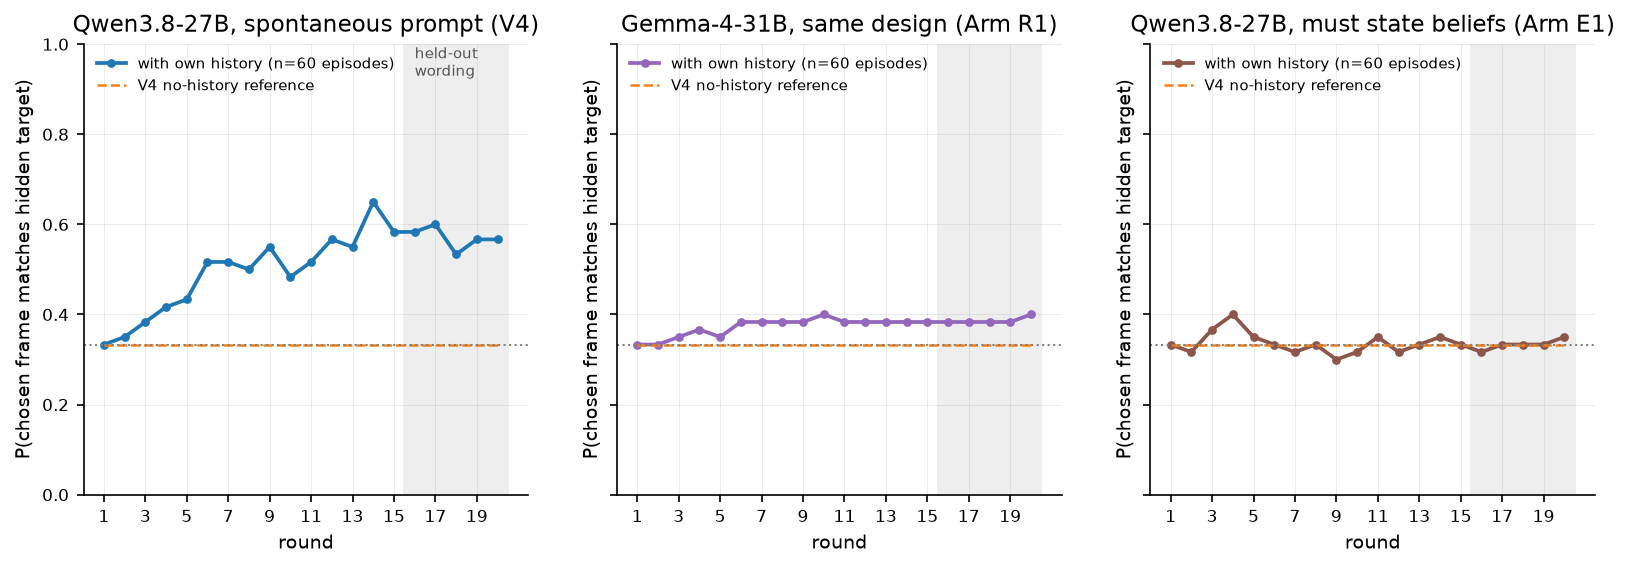
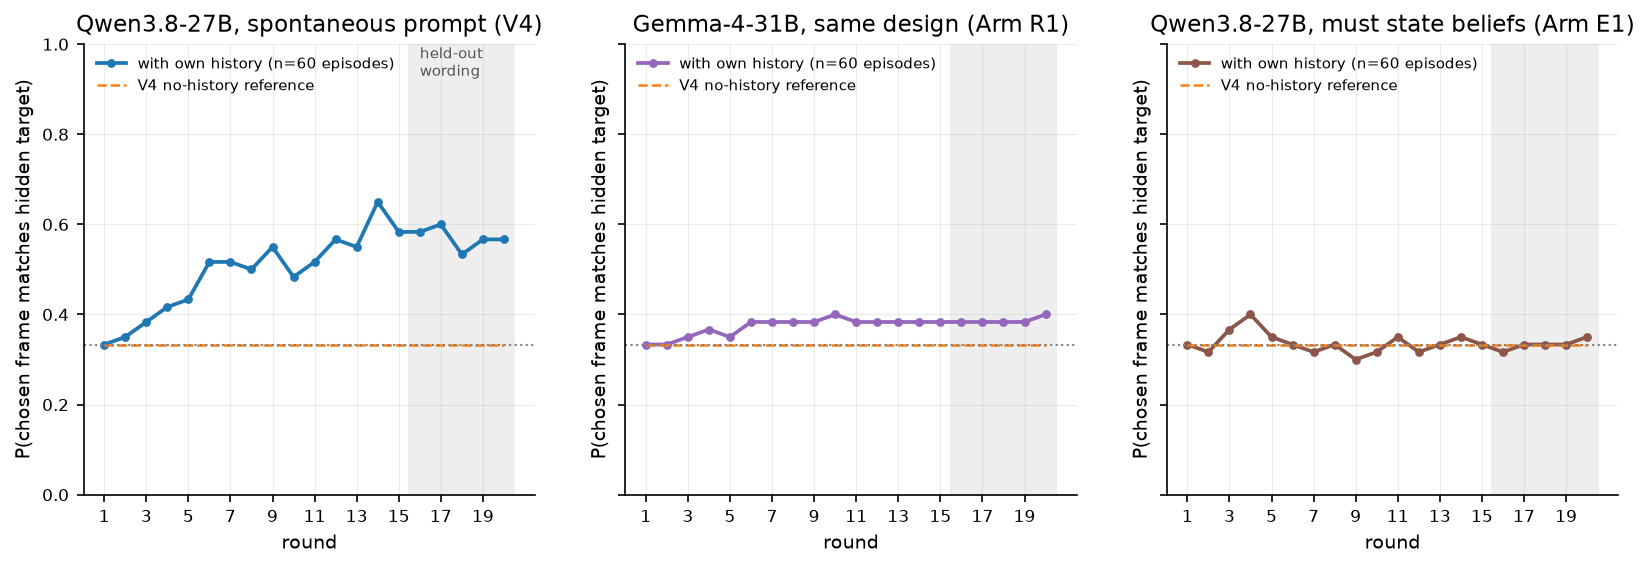
Write-up: pre-wire Arm P1 (paraphrase) — Result 7, ledger row, fourth whole-story panel; pending until results exist

diff --git a/scripts/make_writeup_materials.py b/scripts/make_writeup_materials.py
@@ -37,6 +37,7 @@ R1_DIR = os.path.join(ROOT, "results", "v4_real", "replication_gemma4")   # Arm 
 E1_DIR = os.path.join(ROOT, "results", "v4_real", "elicited_qwen38")      # Arm E1: Qwen3.8-27B, elicited beliefs
 E1_BELIEF = os.path.join(E1_DIR, "beliefs", "elicited_belief_summary.json")
 E1_LOG = os.path.join(ROOT, "data", "raw", "v4e-qwen38.jsonl")
+P1_DIR = os.path.join(ROOT, "results", "v4_real", "paraphrase_qwen38")     # Arm P1: Qwen3.8-27B, reworded spontaneous prompt
 FRAMES = ("fairness", "risk", "expertise")
 COL = {"full_history": "#1f77b4", "no_history": "#ff7f0e", "shuffled_history": "#2ca02c", "random_target": "#d62728", "swap": "#9467bd"}
 numbers = []  # (label, value, source)
@@ -327,6 +328,24 @@ def fig9_elicited():
     return out
 
 
+def p1_paraphrase():
+    """Arm P1: frozen V4 design on Qwen with a reworded spontaneous prompt; frozen analyzer run once."""
+    summ = os.path.join(P1_DIR, "v4_checkpoint_summary.json")
+    if not os.path.exists(summ):
+        return None
+    s = json.load(open(summ)); m = s["stable_condition_metrics"]
+    for cond in ("full_history", "no_history", "shuffled_history", "random_target"):
+        g = m[cond]["learning_gain"]; N("P1 paraphrase %s learning gain (late held-out − early), 95%% CI" % cond, "%.3f [%.3f, %.3f], n=%d" % (g["mean"], g["ci_lo"], g["ci_hi"], g["n"]), "paraphrase_qwen38/v4_checkpoint_summary.json")
+    st = pd.read_csv(os.path.join(P1_DIR, "tables", "v4_stable_conditions.csv"))
+    for _, r in st.iterrows(): N("P1 paraphrase %s early / late held-out match" % r.condition, "%.3f / %.3f" % (r.early_match, r.late_heldout_match), "paraphrase_qwen38/tables/v4_stable_conditions.csv")
+    pc = s["primary_contrasts"]["full_vs_no_difference_in_differences"]; N("P1 paraphrase full − no-history difference-in-differences, one-sided p", "%.3f [%.3f, %.3f], p=%.4f" % (pc["mean"], pc["ci_lo"], pc["ci_hi"], pc["p_value_one_sided"]), "paraphrase_qwen38/v4_checkpoint_summary.json primary_contrasts")
+    for t, v in s["late_match_by_target_type"].items(): N("P1 paraphrase late match by target %s: full / no-history / advantage" % t, "%.3f / %.3f / %.3f" % (v["full_late_heldout"], v["no_history_late_heldout"], v["advantage"]), "paraphrase_qwen38/v4_checkpoint_summary.json late_match_by_target_type")
+    sw = s["swap_metrics"]; N("P1 paraphrase swap new gain / old drop / new-over-old (p) / adapted", "%.3f / %.3f / %.3f (p=%.4f) / %d of %d" % (sw["new_target_gain"]["mean"], sw["old_target_drop"]["mean"], sw["late_new_over_old"]["mean"], sw["late_new_over_old"]["p_value_one_sided"], sw["n_adapted"], sw["n_episodes"]), "paraphrase_qwen38/v4_checkpoint_summary.json swap_metrics")
+    N("P1 paraphrase decision", s["decision"], "paraphrase_qwen38/v4_checkpoint_summary.json decision")
+    N("P1 paraphrase stable primary randomization test passed", s["inference_gates"]["stable_primary_randomization_test"], "paraphrase_qwen38/v4_checkpoint_summary.json inference_gates")
+    return {"summary": s}
+
+
 def fig11_whole_story():
     """One figure for the summary: full-history match by round for V4 Qwen, R1 Gemma, E1 Qwen-elicited, with V4 no-history as the reference."""
     r1 = os.path.join(R1_DIR, "tables", "v4_round_trajectories.csv"); e1 = os.path.join(E1_DIR, "tables", "elicited_round_trajectories.csv")
@@ -334,10 +353,12 @@ def fig11_whole_story():
         return None
     tq = pd.read_csv(V4_TRAJ); tg = pd.read_csv(r1); te = pd.read_csv(e1)
     ref = tq[(tq.metric == "match") & (tq.condition == "no_history")].sort_values("round")
-    panels = [("Qwen3.8-27B, spontaneous prompt (V4)", tq, "full_history", COL["full_history"]),
-              ("Gemma-4-31B, same design (Arm R1)", tg, "full_history", "#9467bd"),
-              ("Qwen3.8-27B, must state beliefs (Arm E1)", te, "elicited_full_history", "#8c564b")]
-    fig, axes = plt.subplots(1, 3, figsize=(13, 3.9), dpi=150, sharey=True)
+    panels = [("Qwen3.8-27B, spontaneous prompt (V4)", tq, "full_history", COL["full_history"])]
+    p1 = os.path.join(P1_DIR, "tables", "v4_round_trajectories.csv")
+    if os.path.exists(p1): panels.append(("Qwen3.8-27B, reworded prompt (Arm P1)", pd.read_csv(p1), "full_history", "#17becf"))
+    panels += [("Gemma-4-31B, same design (Arm R1)", tg, "full_history", "#9467bd"),
+               ("Qwen3.8-27B, must state beliefs (Arm E1)", te, "elicited_full_history", "#8c564b")]
+    fig, axes = plt.subplots(1, len(panels), figsize=(4.4 * len(panels), 3.9), dpi=150, sharey=True)
     for ax, (title, t, cond, color) in zip(axes, panels):
         g = t[(t.metric == "match") & (t.condition == cond)].sort_values("round")
         ax.plot(g["round"], g["mean"], marker="o", ms=3.2, lw=1.8, color=color, label="with own history (n=%d episodes)" % int(g["n"].iloc[0]))
@@ -362,7 +383,7 @@ def random_examples(k=5, seed=0, log_path=None):
 def main():
     os.makedirs(OUT, exist_ok=True)
     s = json.load(open(V4_SUM))
-    fig1_learning(); per, grp = fig2_swap(); fig6_per_target(); fig3_priors(); fig4_v8_power(); fc = fig5_first_crossing_bias(); r1 = fig7_replication(); hs = fig10_history_sensitivity(); e1 = fig9_elicited(); whole = fig11_whole_story()
+    fig1_learning(); per, grp = fig2_swap(); fig6_per_target(); fig3_priors(); fig4_v8_power(); fc = fig5_first_crossing_bias(); r1 = fig7_replication(); hs = fig10_history_sensitivity(); e1 = fig9_elicited(); p1 = p1_paraphrase(); whole = fig11_whole_story()
     m = s["stable_condition_metrics"]; pv = {}
     def walk(x, pre=""):
         for kk, v in (x.items() if isinstance(x, dict) else []):
@@ -389,6 +410,7 @@ def main():
           "- Methodological finding: a first-crossing 'probe leads behaviour' lag metric is biased by probe noise — a chance-level probe appears to lead by %.2f rounds with a CI excluding 0 in %.0f%% of runs under fig_w5's noise model (0.74 rounds / 71%% under the review's). Replaced before any real probe was trained." % (fc[0][1], 100 * fc[0][2]),
           ("- Result 5 (replication, Arm R1 — Gemma-4-31B on the frozen V4 design, run once, 7,200/7,200 valid): does NOT replicate. Decision `%s`; full-history learning gain %s (Qwen: 0.187 [0.083, 0.290]); revision test passed = %s. Gemma picks expertise ~90%% of rounds whatever the history: its choice equals the shuffled-history choice on the identical triple %.1f%% of the time (Qwen %.1f%%), and P(repeat frame) is %.3f after a success vs %.3f after a failure (Qwen %.3f vs %.3f). Per target the small movement is *toward* the default (expertise full 1.00 vs no-history 0.72; fairness 0.01 vs 0.16). The frozen V4 learning result is, so far, Qwen-specific (fig_w7, fig_w8, fig_w10)." % (r1["summary"]["decision"], numbers[[n[0] for n in numbers].index("R1 Gemma full_history learning gain (late held-out − early), 95% CI")][1], r1["summary"]["inference_gates"]["swap_revision_randomization_test"], 100 * hs["gemma"]["agreement"]["shuffled_history"][0], 100 * hs["qwen"]["agreement"]["shuffled_history"][0], hs["gemma"]["p_repeat_after_success"], hs["gemma"]["p_repeat_after_failure"], hs["qwen"]["p_repeat_after_success"], hs["qwen"]["p_repeat_after_failure"])) if (r1 and hs) else "- Result 5 (replication, Arm R1 — Gemma-4-31B): PENDING (declared 2026-09-03, docs/V4_REPLICATION_DECLARATION.md).",
           ("- Result 6 (elicited belief, Arm E1 — same Qwen, same design, seeds and targets, but forced to state p_a per candidate and then choose; run once, 3,600/3,600 valid JSON): the V4 learning effect DISAPPEARS. Within-arm verdict `%s`; elicited full-history gain %s (V4 spontaneous 0.187); elicited − spontaneous learning-gain difference %s. Under this prompt the model picks expertise %.1f%% of rounds and never picks fairness; the choice is the argmax of its stated p_a in %d of %d records, so 'belief' and 'choice' are one object; stated confidence is a fixed frame ranking (expertise %.2f > risk %.2f > fairness %.2f) that barely moves with feedback (P(repeat) %.3f after success vs %.3f after failure; V4: 0.876 vs 0.693); post-swap P(belief=new) − P(choice=new) = %s. There is no stated belief that the behaviour ignores; and the V4 learning result is prompt-specific as well as model-specific (fig_w9)." % (e1["summary"].get("verdict"), next((n[1] for n in numbers if n[0].startswith("E1 elicited elicited_full_history learning gain")), "n/a"), next((n[1] for n in numbers if n[0].startswith("E1 − V4 spontaneous: full-history learning gain")), "n/a"), 100 * e1["diag"]["shares"].get("expertise", 0), e1["diag"]["argmax_eq"], e1["diag"]["n"], e1["diag"]["byf"].get("expertise", float("nan")), e1["diag"]["byf"].get("risk", float("nan")), e1["diag"]["byf"].get("fairness", float("nan")), e1["diag"]["ws"], e1["diag"]["ls"], next((n[1] for n in numbers if n[0].startswith("E1 elicited_swap post-swap rounds 1-5")), "n/a"))) if (e1 and e1.get("diag")) else "- Result 6 (elicited belief, Arm E1 — Qwen3.8-27B): PENDING (declared 2026-09-03).",
+          ("- Result 7 (prompt paraphrase, Arm P1 — same Qwen, same design, seeds, targets and bank, spontaneous prompt reworded): decision `%s`; full-history learning gain %s (V4: 0.187 [0.083, 0.290]); full − no-history DiD %s; stable randomization test passed = %s (fig_w11, second panel)." % (p1["summary"]["decision"], next((n[1] for n in numbers if n[0] == "P1 paraphrase full_history learning gain (late held-out − early), 95% CI"), "n/a"), next((n[1] for n in numbers if n[0].startswith("P1 paraphrase full − no-history")), "n/a"), p1["summary"]["inference_gates"]["stable_primary_randomization_test"])) if p1 else "- Result 7 (prompt paraphrase, Arm P1 — Qwen3.8-27B, reworded spontaneous prompt): PENDING (declared 2026-09-03).",
           "- What was NOT done: no activation capture, probe, or steering on a real model (gated behind a passed revision test that never came, and now moot: no behavioural effect survives a model or prompt change); no human validation of the message bank yet (two blind machine judges; a 45-template blind hand-label sheet exists); E1 cannot separate the output-format change from the model seeing its own past predictions.",
           "", "## Randomly selected V4 examples (seed 0, lines drawn uniformly from the 7,200-record log)", "",
           "The model sees the three candidates **without** frame labels; labels shown here are the registered ground truth. `→` marks the model's choice."]
@@ -411,6 +433,7 @@ def main():
            "| V8 | declared milestone; destination-stratified acquisition gate; α=0.05/3 | V8-complete Wilson lower ≥ 0.80 at some N, every measured cell | FAIL (0.10–0.56 vs learner_1); null size clean | docs/V8_MILESTONE_DECLARATION.md |",
            "| R1 | frozen V4 design on Gemma-4-31B (replication) | frozen V4 gates | learning FAIL (gain 0.040); revision FAIL; feedback-insensitive | results/v4_real/replication_gemma4/ |",
            "| E1 | frozen V4 design on Qwen, elicited-belief prompt | frozen V4 functions within-arm | learning FAIL (gain −0.020; −0.207 vs V4); belief = choice | results/v4_real/elicited_qwen38/ |",
+           ("| P1 | frozen V4 design on Qwen, spontaneous prompt reworded | frozen V4 gates | %s | results/v4_real/paraphrase_qwen38/ |" % p1["summary"]["decision"]) if p1 else "| P1 | frozen V4 design on Qwen, spontaneous prompt reworded | frozen V4 gates | PENDING | — |",
            "", "## Numbers sheet", "", "| label | value | source |", "|---|---|---|"]
     md += ["| %s | %s | `%s` |" % (a, b, c) for a, b, c in numbers]
     md += ["", "## Figures", "", "- fig_w1_v4_learning_by_condition.png — match rate by round, four stable conditions, held-out band marked",

diff --git a/results/writeup/WRITEUP_MATERIALS.md b/results/writeup/WRITEUP_MATERIALS.md
@@ -14,6 +14,7 @@ Generated by `scripts/make_writeup_materials.py` from committed artifacts. Every
 - Methodological finding: a first-crossing 'probe leads behaviour' lag metric is biased by probe noise — a chance-level probe appears to lead by 0.91 rounds with a CI excluding 0 in 87% of runs under fig_w5's noise model (0.74 rounds / 71% under the review's). Replaced before any real probe was trained.
 - Result 5 (replication, Arm R1 — Gemma-4-31B on the frozen V4 design, run once, 7,200/7,200 valid): does NOT replicate. Decision `STOP_BEFORE_FREEFORM_OR_MECHANISTIC_SCALING`; full-history learning gain 0.040 [-0.007, 0.093], n=60 (Qwen: 0.187 [0.083, 0.290]); revision test passed = False. Gemma picks expertise ~90% of rounds whatever the history: its choice equals the shuffled-history choice on the identical triple 90.5% of the time (Qwen 63.7%), and P(repeat frame) is 0.972 after a success vs 0.941 after a failure (Qwen 0.876 vs 0.693). Per target the small movement is *toward* the default (expertise full 1.00 vs no-history 0.72; fairness 0.01 vs 0.16). The frozen V4 learning result is, so far, Qwen-specific (fig_w7, fig_w8, fig_w10).
 - Result 6 (elicited belief, Arm E1 — same Qwen, same design, seeds and targets, but forced to state p_a per candidate and then choose; run once, 3,600/3,600 valid JSON): the V4 learning effect DISAPPEARS. Within-arm verdict `ELICITED_LEARNING_FAIL_REVISION_FAIL`; elicited full-history gain -0.020 [-0.053, 0.010], n=60 (V4 spontaneous 0.187); elicited − spontaneous learning-gain difference -0.207 [-0.317, -0.097]. Under this prompt the model picks expertise 94.2% of rounds and never picks fairness; the choice is the argmax of its stated p_a in 3600 of 3600 records, so 'belief' and 'choice' are one object; stated confidence is a fixed frame ranking (expertise 0.69 > risk 0.58 > fairness 0.49) that barely moves with feedback (P(repeat) 0.933 after success vs 0.908 after failure; V4: 0.876 vs 0.693); post-swap P(belief=new) − P(choice=new) = 0.003 [0.000, 0.010], episodes=120. There is no stated belief that the behaviour ignores; and the V4 learning result is prompt-specific as well as model-specific (fig_w9).
+- Result 7 (prompt paraphrase, Arm P1 — Qwen3.8-27B, reworded spontaneous prompt): PENDING (declared 2026-09-03).
 - What was NOT done: no activation capture, probe, or steering on a real model (gated behind a passed revision test that never came, and now moot: no behavioural effect survives a model or prompt change); no human validation of the message bank yet (two blind machine judges; a 45-template blind hand-label sheet exists); E1 cannot separate the output-format change from the model seeing its own past predictions.
 
 ## Randomly selected V4 examples (seed 0, lines drawn uniformly from the 7,200-record log)
@@ -100,6 +101,7 @@ The model sees the three candidates **without** frame labels; labels shown here 
 | V8 | declared milestone; destination-stratified acquisition gate; α=0.05/3 | V8-complete Wilson lower ≥ 0.80 at some N, every measured cell | FAIL (0.10–0.56 vs learner_1); null size clean | docs/V8_MILESTONE_DECLARATION.md |
 | R1 | frozen V4 design on Gemma-4-31B (replication) | frozen V4 gates | learning FAIL (gain 0.040); revision FAIL; feedback-insensitive | results/v4_real/replication_gemma4/ |
 | E1 | frozen V4 design on Qwen, elicited-belief prompt | frozen V4 functions within-arm | learning FAIL (gain −0.020; −0.207 vs V4); belief = choice | results/v4_real/elicited_qwen38/ |
+| P1 | frozen V4 design on Qwen, spontaneous prompt reworded | frozen V4 gates | PENDING | — |
 
 ## Numbers sheet
 
